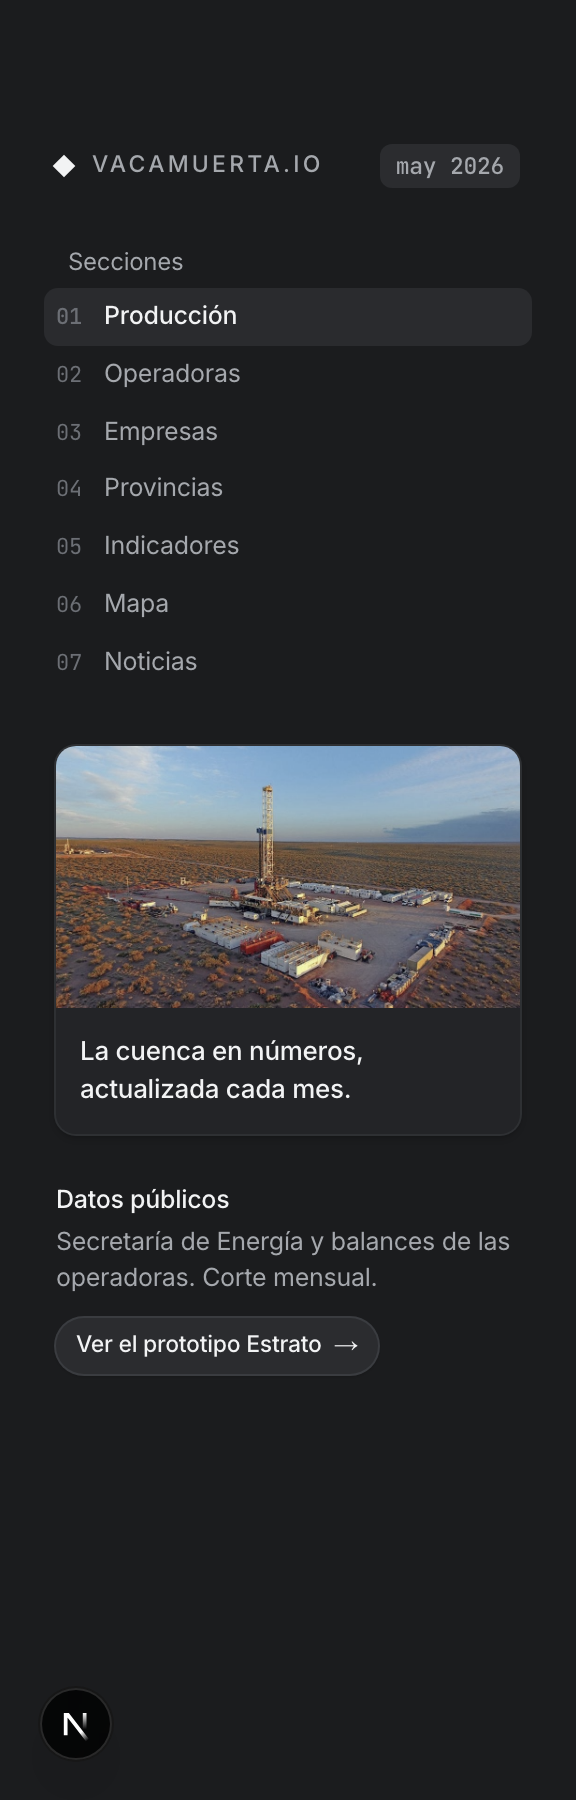
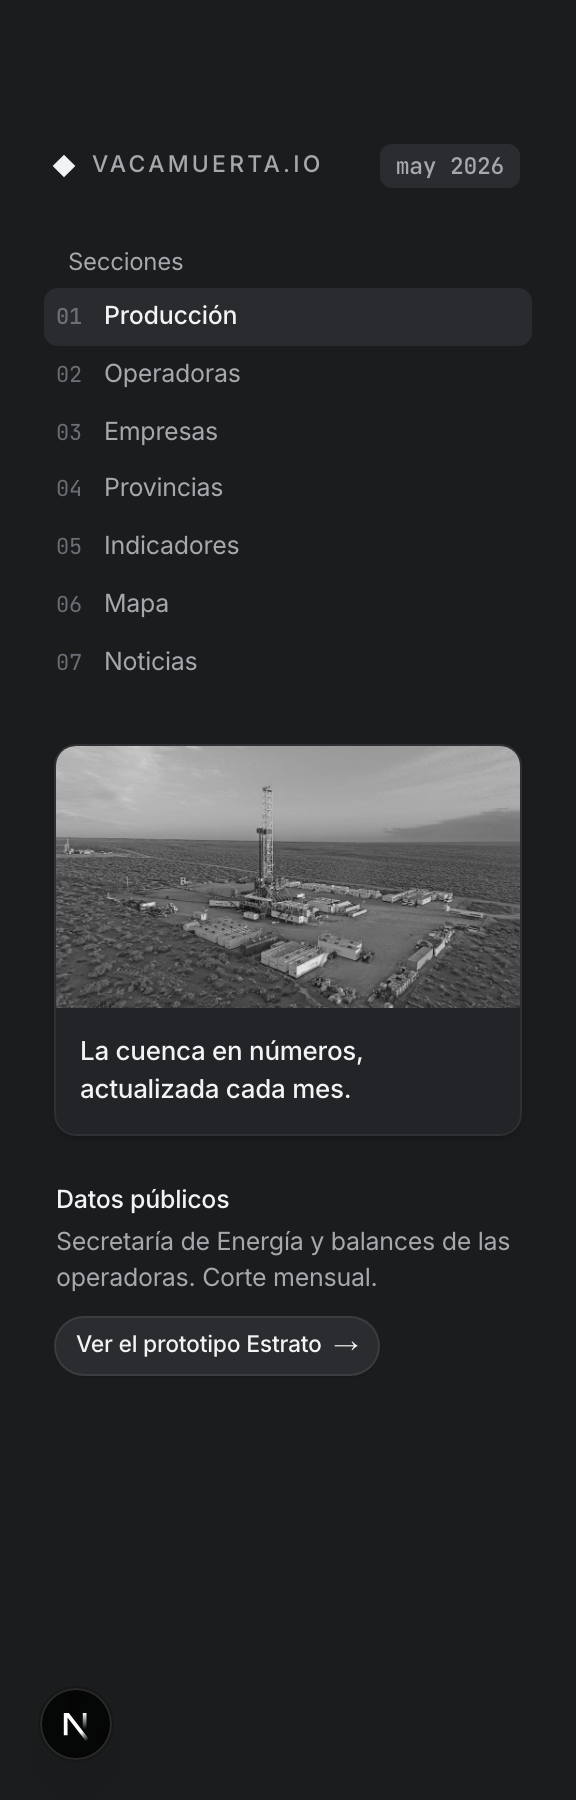
style(ui-prototype): la foto de la mini card va en blanco y negro lavado
De grayscale(0.5) a grayscale(1) contrast(0.9).

Lo pedido era blanco y negro con una capa de gris al 10% encima para
aclararlo. Va con un filtro en vez de una capa porque es la MISMA operación:

  capa de gris al 10%:  salida = 0,9 · imagen + 0,1 · gris
  contrast(0.9) en CSS: salida = 0,9 · imagen + 0,05

Coinciden exacto cuando el gris de la capa es el 50%, o sea gris medio. El
filtro ahorra un div absoluto, y además no depende del fondo de la card: si
algún día cambia, el lavado sigue siendo el mismo.

No lo dejé en la teoría: comparé los dos caminos píxel a píxel dibujando la
imagen en un canvas por cada uno. Diferencia máxima de 1 sobre 255 y promedio
de 0,08 —redondeo, nada más—. Cero píxeles con color, así que el blanco y
negro es pleno. El rango de luminosidad se cierra de 8-237 a 19-226, que es
el lavado que se buscaba.

Changed region(s): [[0.0938, 0.4044, 0.9062, 0.56], [0.6562, 0.4978, 0.8438, 0.56], [0.5938, 0.4978, 0.625, 0.5289]]

diff --git a/apps/ui-prototype/src/app/v2/_ui/CardCuenca.tsx b/apps/ui-prototype/src/app/v2/_ui/CardCuenca.tsx
@@ -4,11 +4,16 @@
    card, anillo de 1px por sombra, overflow oculto y 12px de padding. La foto
    sale a sangre porque el overflow del card la recorta contra el radio.
 
-   La foto va desaturada a la mitad. En el original es un atardecer naranja
-   muy saturado y, en una columna donde todo lo demás es gris azulado, se
-   comía la atención de una pieza que es secundaria. A la mitad sigue
-   leyéndose como foto en color pero deja de gritar. Es un solo número si
-   querés más o menos.
+   La foto va en blanco y negro pleno y lavada. Lo pedido era B/N con una capa
+   de gris al 10% encima para aclararla; va con `contrast(0.9)`, que es la
+   MISMA operación sin sumar un elemento:
+
+     capa de gris al 10%:  salida = 0,9 · imagen + 0,1 · gris
+     contrast(0.9) en CSS: salida = 0,9 · imagen + 0,05
+
+   Coinciden exacto cuando el gris de la capa es el 50%, o sea gris medio.
+   Así que el filtro reemplaza a la capa sin un div absoluto de por medio, y
+   además se apaga solo si algún día la card cambia de fondo.
 
    Va con <img> plano y no con next/image: en pantallas de densidad 2 el
    optimizador no llegaba a servirla —ni siquiera disparaba la petición— y la
@@ -26,7 +31,7 @@ export function CardCuenca() {
         loading="eager"
         decoding="async"
         className="block w-full"
-        style={{ aspectRatio: '16 / 9', height: 'auto', objectFit: 'cover', filter: 'grayscale(0.5)' }}
+        style={{ aspectRatio: '16 / 9', height: 'auto', objectFit: 'cover', filter: 'grayscale(1) contrast(0.9)' }}
       />
       <p className="s-cuerpo m-0 p-3 font-medium text-balance">
         La cuenca en números, actualizada cada mes.
